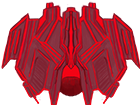
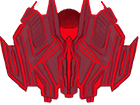
rotate player png file; simplify acceleration method

diff --git a/source/game/prefabs/player.cpp b/source/game/prefabs/player.cpp
@@ -103,15 +103,11 @@ void Player::accelerate( r32 dt )
 {
 	velocity += acceleration_direction * VELOCITY_MAX * ACCELERATION_MULTIPLIER;
 
-	if ( velocity.x < -VELOCITY_MAX )
-		velocity.x = -VELOCITY_MAX;
-	if ( velocity.x > VELOCITY_MAX )
-		velocity.x = VELOCITY_MAX;
+	if ( std::fabs( velocity.x ) > VELOCITY_MAX )
+		velocity.x = VELOCITY_MAX * acceleration_direction.x;
 
-	if ( velocity.y < -VELOCITY_MAX )
-		velocity.y = -VELOCITY_MAX;
-	if ( velocity.y > VELOCITY_MAX )
-		velocity.y = VELOCITY_MAX;
+	if ( std::fabs( velocity.y ) > VELOCITY_MAX )
+		velocity.y = VELOCITY_MAX * acceleration_direction.y;
 }
 
 void Player::correct_for_boundary_collision()
@@ -120,19 +116,16 @@ void Player::correct_for_boundary_collision()
 	constant window_width = G_App.get_window_size().width;
 	constant sprite_width = sprite_a->cast_to<Sprite>()->get_global_bounds().size.width;
 	constant x_pos = get_global_position().x;
-	log_info( "{} vs {}", x_pos, sprite_a->get_global_position().x );
 	// y_pos doesn't matter since sprites has it own individual position, 
 	// but it's still more clear if we set it as it was.
 	constant y_pos = get_global_position().y;
 	constant x_pos_max = x_pos + sprite_width;
 
-	if ( x_pos <= 0.0px ) {
-		velocity.x = 0;
+	if ( x_pos <= 0.0px )
 		set_global_position( { 0.0px, y_pos } );
-	} else if ( x_pos_max >= window_width ) {
-		velocity.x = 0;
+	else if ( x_pos_max >= window_width )
 		set_global_position( { window_width - sprite_width, y_pos } );
-	}
+
 }
 
 void Player::update_tilt_transformation()
